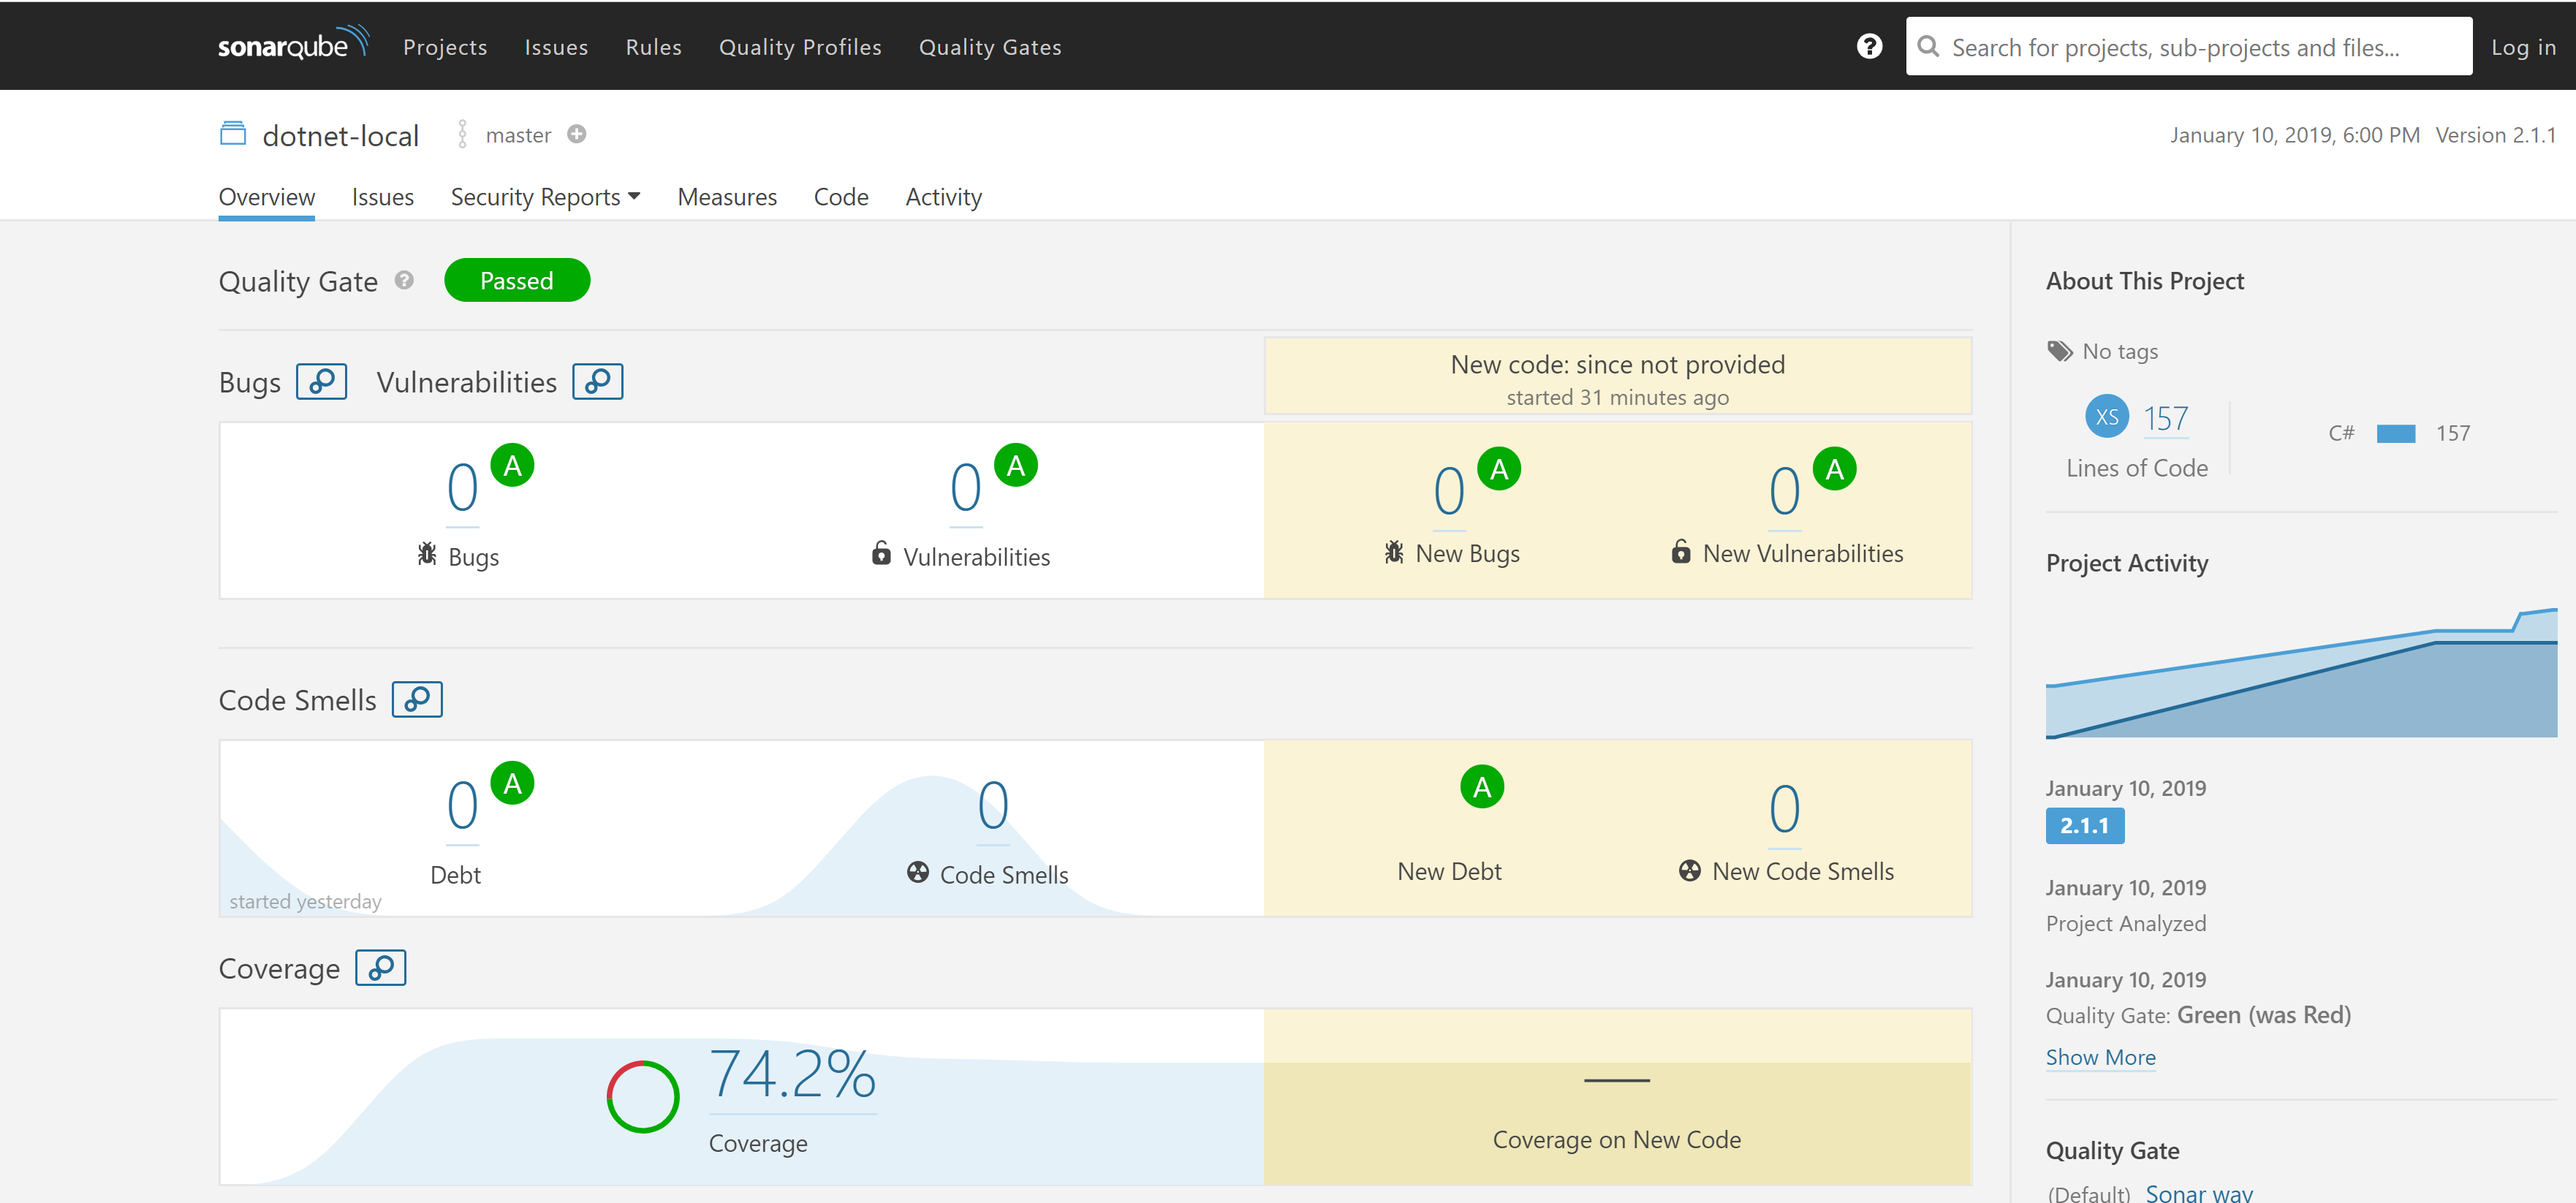
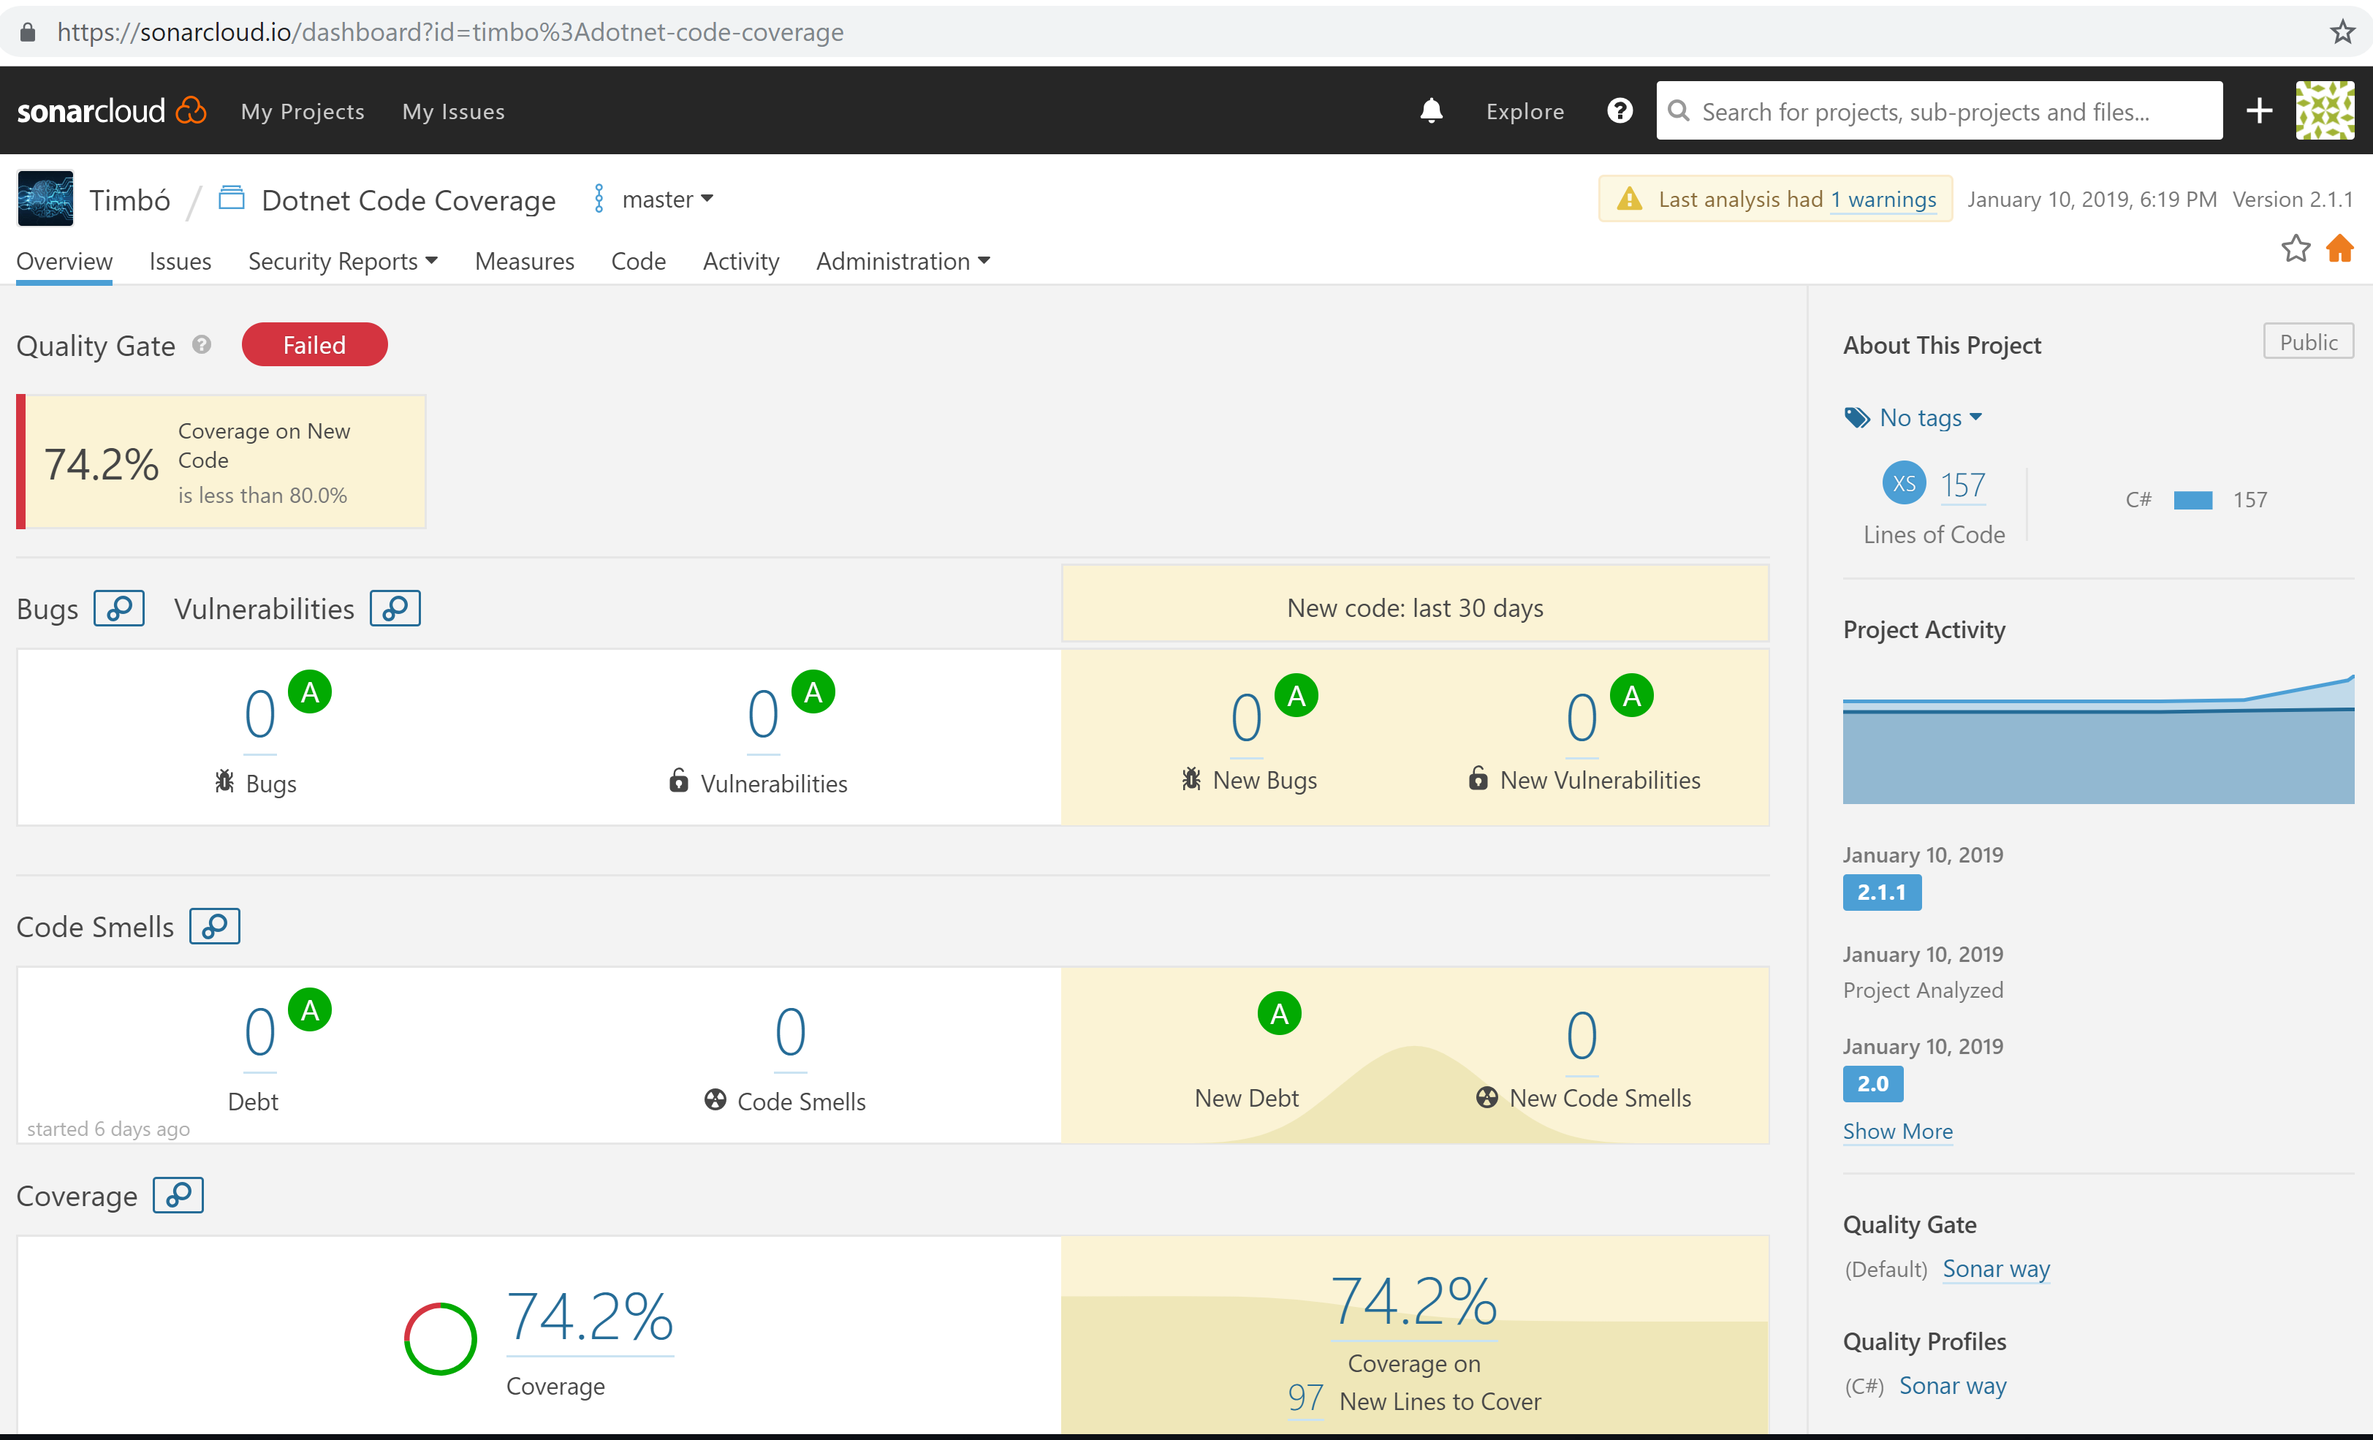
sonarqube overview screenshot readme

diff --git a/README.md b/README.md
@@ -25,6 +25,8 @@ Results available on [Sonarcloud](https://sonarcloud.io/dashboard?id=timbo%3Adot
 These have been ensured because I run the tools both locally on the Windows machine,
 and on Travis with the trusty linux distribution, all with cross-platform python scripts
 
+Overview showing Quality Gate failure due to Code coverage < 80%
+and number of new lines to cover:
 ![Overview](screenshots/sonarcloud/sonarcloud-overview.PNG)
 
 ![Sonarcloud Coverage](screenshots/sonarcloud/sonarcloud-coverage.PNG)
